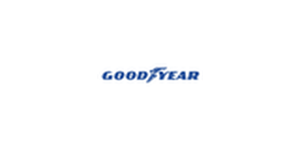
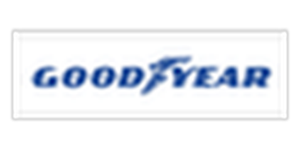
Goodyear 로고 투명 여백 제거 및 확대 (최종)
- 문제: 300x150 이미지에서 로고가 중앙 작은 부분만 차지
- 해결: 투명 여백 자동 제거 → 300x115로 확대 → 캔버스 가득
- 이제 브랜드 박스에서 크게 표시됨
- 백업: goodyear_before_crop.png

Changed region(s): [[0.03, 0.1867, 0.99, 0.8]]

diff --git a/crop_and_enlarge_goodyear.py b/crop_and_enlarge_goodyear.py
@@ -1,0 +1,117 @@
+"""
+Goodyear 로고 투명 여백 제거 및 확대
+
+문제: 300x150 이미지에서 로고가 중앙 작은 부분만 차지
+해결: 투명 여백 자동 제거(crop) → 캔버스 가득 채우도록 확대
+"""
+
+from PIL import Image
+import os
+
+BASE_PATH = 'tire_data/static/mobile/img/brands'
+BRAND = 'goodyear'
+
+def get_bbox(img):
+    """투명하지 않은 영역의 경계 박스 계산"""
+    # RGBA 이미지에서 알파 채널 가져오기
+    if img.mode != 'RGBA':
+        img = img.convert('RGBA')
+
+    # 알파 채널 추출
+    alpha = img.split()[3]
+
+    # 투명하지 않은 영역 찾기
+    bbox = alpha.getbbox()
+    return bbox
+
+def crop_and_enlarge_goodyear():
+    image_path = os.path.join(BASE_PATH, f'{BRAND}.png')
+
+    if not os.path.exists(image_path):
+        print(f"[X] {BRAND}.png 파일이 없습니다")
+        return False
+
+    try:
+        # 이미지 열기
+        img = Image.open(image_path)
+        original_size = img.size
+
+        print(f"원본 크기: {original_size[0]}x{original_size[1]}")
+
+        # 투명 여백 제거 (crop)
+        bbox = get_bbox(img)
+
+        if bbox:
+            print(f"투명 여백 제거: {bbox}")
+            cropped_img = img.crop(bbox)
+            cropped_size = cropped_img.size
+            print(f"Crop 후 크기: {cropped_size[0]}x{cropped_size[1]}")
+        else:
+            print("투명 영역 없음 - crop 건너뜀")
+            cropped_img = img
+            cropped_size = img.size
+
+        # 목표 크기로 확대 (300x150)
+        target_size = (300, 150)
+
+        # 비율 유지하면서 최대한 크게
+        # 가로세로 비율 계산
+        aspect_ratio = cropped_size[0] / cropped_size[1]
+        target_aspect = target_size[0] / target_size[1]
+
+        if aspect_ratio > target_aspect:
+            # 가로가 더 긴 경우 - 가로를 기준으로
+            new_width = target_size[0]
+            new_height = int(new_width / aspect_ratio)
+        else:
+            # 세로가 더 긴 경우 - 세로를 기준으로
+            new_height = target_size[1]
+            new_width = int(new_height * aspect_ratio)
+
+        print(f"리사이즈: {new_width}x{new_height}")
+
+        # 리사이징
+        resized_img = cropped_img.resize((new_width, new_height), Image.Resampling.LANCZOS)
+
+        # 300x150 캔버스 생성 (투명 배경)
+        final_img = Image.new('RGBA', target_size, (0, 0, 0, 0))
+
+        # 중앙에 배치
+        x_offset = (target_size[0] - new_width) // 2
+        y_offset = (target_size[1] - new_height) // 2
+
+        final_img.paste(resized_img, (x_offset, y_offset), resized_img)
+
+        # 백업 저장
+        backup_path = image_path.replace('.png', '_before_crop.png')
+        img.save(backup_path)
+        print(f"\n백업 저장: {backup_path}")
+
+        # 저장
+        final_img.save(image_path, 'PNG', optimize=True)
+
+        print(f"\n[OK] {BRAND}: {original_size[0]}x{original_size[1]} -> {target_size[0]}x{target_size[1]}")
+        print(f"실제 로고 크기: {new_width}x{new_height} (캔버스 가득 채움)")
+
+        # 확인
+        verify_img = Image.open(image_path)
+        verify_size = verify_img.size
+        print(f"\n검증: {verify_size[0]}x{verify_size[1]}")
+
+        if verify_size == target_size:
+            print("[OK] 크기 변경 성공!")
+            print("\n이제 Goodyear 로고가 캔버스를 가득 채워서 브랜드 박스에 크게 표시됩니다!")
+            return True
+        else:
+            print(f"[X] 크기 불일치: {verify_size}")
+            return False
+
+    except Exception as e:
+        print(f"[X] 처리 실패: {e}")
+        import traceback
+        traceback.print_exc()
+        return False
+
+if __name__ == '__main__':
+    print("=== Goodyear 로고 투명 여백 제거 및 확대 ===\n")
+    crop_and_enlarge_goodyear()
